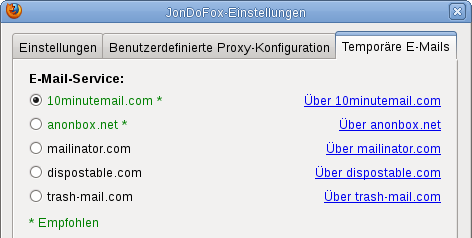
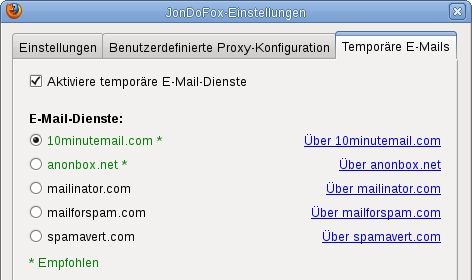
updated JDF feature list

diff --git a/FirefoxByLanguage/deFirefoxPortablePatch/help.html b/FirefoxByLanguage/deFirefoxPortablePatch/help.html
@@ -264,7 +264,7 @@ sch&uuml;tzt.</p>
 <img alt="Tempor&auml;re E-Mail-Adressen -- Kontextmen&uuml;" src="img_jondofox/temp_emails_context_de.png" vspace="8" hspace="0">
 </div>
 
-<p>Danach wird die angeforderte E-Mail-Adresse in das Textfeld eingef&uuml;gt und Ihr Account in einem neuen Tab ge&ouml;ffnet. Wenn Sie selbst bestimmen m&ouml;chten, welchen Anbieter tempor&auml;rer E-Mail-Adressen Sie verwenden wollen, dann k&ouml;nnen Sie die entsprechenden Anpassungen in dem JonDoFox-Einstellungsmen&uuml; vornehmen:</p>
+<p>Danach wird die angeforderte E-Mail-Adresse in das Textfeld eingef&uuml;gt und Ihr Account in einem neuen Tab ge&ouml;ffnet. Wenn Sie selbst bestimmen m&ouml;chten, welchen Anbieter tempor&auml;rer E-Mail-Adressen Sie verwenden oder dieses Feature sogar ganz deaktivieren wollen, dann k&ouml;nnen Sie die entsprechenden Anpassungen in dem JonDoFox-Einstellungsmen&uuml; vornehmen:</p>
 
 <div align="center">
 <img alt="Tempor&auml;re E-Mail-Adressen -- Einstellungen" src="img_jondofox/temp_emails_de.png" vspace="8" hspace="0">

diff --git a/FirefoxByLanguage/enFirefoxPortablePatch/help.html b/FirefoxByLanguage/enFirefoxPortablePatch/help.html
@@ -258,7 +258,7 @@ supporting the user to avoid information leaks due to faked certificates and
 <img alt="Temporary E-mail addresses -- context menu" src="img_jondofox/temp_emails_context_en.png" vspace="8" hspace="0">
 </div>
 
-<p>Thereafter, the requested E-mail address will get inserted into the text field and your account gets opened in a new tab. If you want to decide by yourself which provider of temporary E-mail addresses you want to use then you may do this in the JonDoFox settings menu in the Temporary E-mails tab:</p>
+<p>Thereafter, the requested E-mail address will get inserted into the text field and your account gets opened in a new tab. If you want to decide by yourself which provider of temporary E-mail addresses you would like to use or you even want to deactivate this feature then you may do this in the JonDoFox settings menu in the Temporary E-mails tab:</p>
 
 <div align="center">
 <img alt="Temporary E-mail addresses -- settings" src="img_jondofox/temp_emails_en.png" vspace="8" hspace="0">
